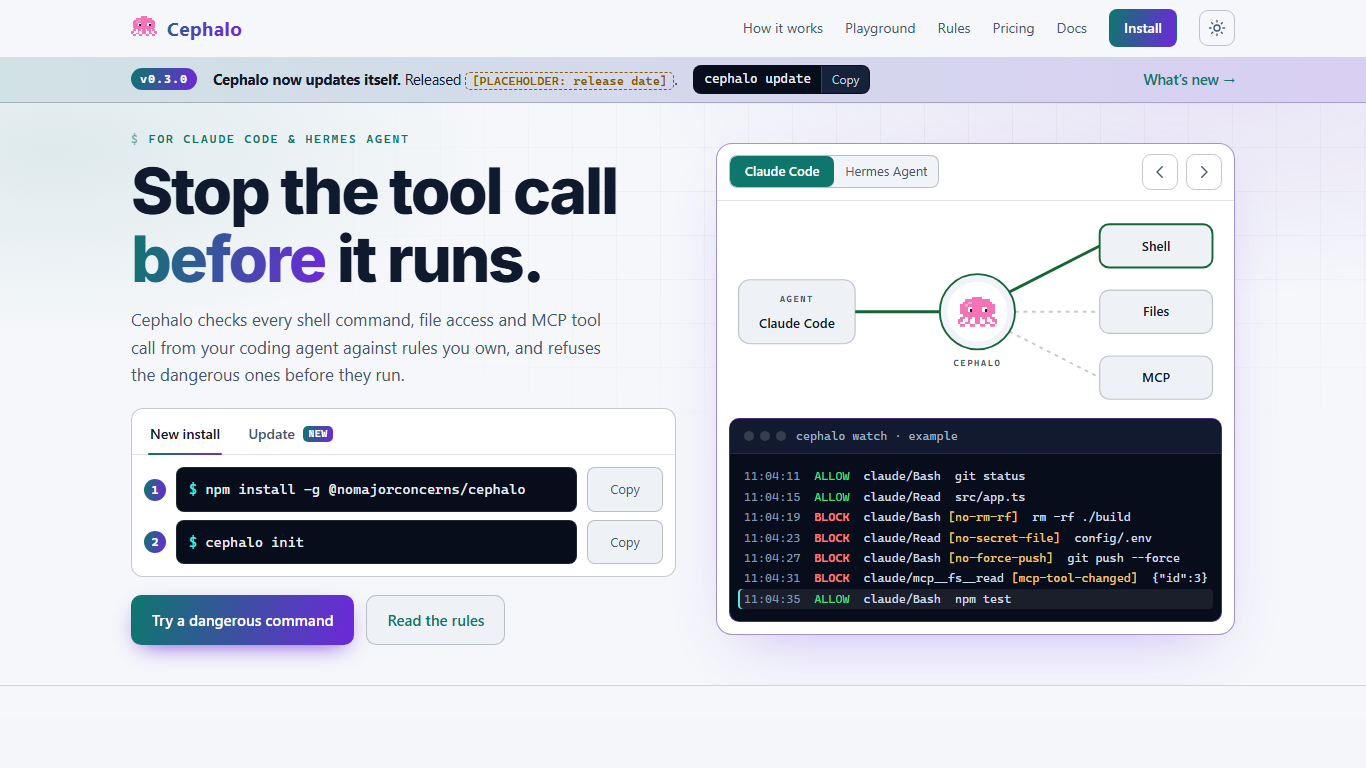
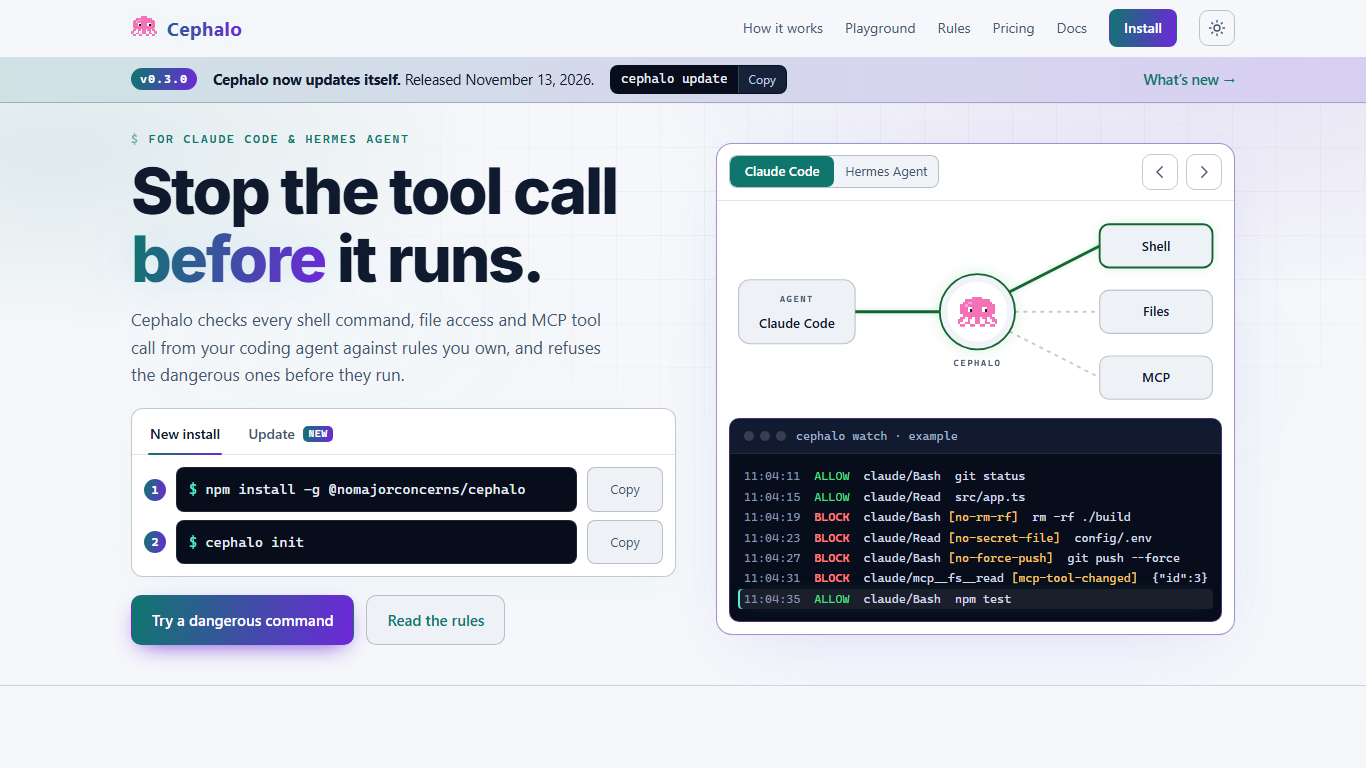
site: subtle neon glow; release date
CSS only: --glow-teal / --glow-purple halos on the command boxes, the hero card and the primary buttons
(on hover and focus), a drop-shadow glow on the gradient headline word, glowing focus rings, a faint radial
glow behind the hero, and a one-off glow on the diagram's lit ALLOW/BLOCK connection. --glow-k makes every
glow much weaker in the light theme; reduced motion keeps the glows and drops the transitions and the pulse.
The announcement bar now says: Released November 13, 2026. Refreshed the after screenshots.

Changed region(s): [[0.3382, 0.0625, 0.6457, 0.125]]

diff --git a/site/index.html b/site/index.html
@@ -1091,6 +1091,43 @@ code,kbd,pre,samp{font-variant-ligatures:none}
 .checks code,.fine code,.qv-rule{white-space:nowrap}
 .hcard .pausebtn{position:static;width:36px;height:36px;background:transparent;z-index:auto}
 @media (prefers-reduced-motion:reduce){.diag .wire,.diag .node rect,.wlog .ln{transition:none}}
+
+/* ==== subtle neon glow: halos and light, never on small body text. --glow-k scales every glow (much weaker in light). ==== */
+:root{--glow-teal:63 224 197;--glow-purple:139 108 255;--glow-allow:74 222 128;--glow-block:255 122 122;--glow-k:1}
+[data-theme="light"]{--glow-k:.32;--glow-allow:22 163 74;--glow-block:200 30 30}
+/* a very faint radial glow behind the hero */
+section.hero{background:
+  radial-gradient(38% 46% at 74% 46%,rgb(var(--glow-purple) / calc(.10 * var(--glow-k))),transparent 70%),
+  radial-gradient(30% 40% at 24% 40%,rgb(var(--glow-teal) / calc(.06 * var(--glow-k))),transparent 70%),
+  radial-gradient(60% 55% at 88% -5%,var(--glow-b),transparent 70%),
+  radial-gradient(45% 45% at 4% 8%,var(--glow-a),transparent 70%)}
+/* the gradient headline word: a soft halo drawn from the rendered gradient (drop-shadow, so the text colour is untouched) */
+.hero h1 em{filter:drop-shadow(0 0 14px rgb(var(--glow-teal) / calc(.28 * var(--glow-k)))) drop-shadow(0 0 30px rgb(var(--glow-purple) / calc(.22 * var(--glow-k))))}
+.brand{filter:drop-shadow(0 0 10px rgb(var(--glow-teal) / calc(.18 * var(--glow-k))))}
+/* halos on the command boxes, the hero card and the Now card */
+.cmdbox,.bigcmd,.chipcmd{box-shadow:0 0 0 1px rgb(var(--glow-teal) / calc(.06 * var(--glow-k))),0 12px 40px -18px rgb(var(--glow-teal) / calc(.38 * var(--glow-k)));transition:box-shadow var(--dur-med) var(--ease-out),border-color var(--dur-med)}
+.cmdbox:focus-within,.cmdbox:hover{border-color:rgb(var(--glow-teal) / calc(.45 * var(--glow-k) + .1));box-shadow:0 0 0 1px rgb(var(--glow-teal) / calc(.14 * var(--glow-k))),0 14px 48px -16px rgb(var(--glow-teal) / calc(.5 * var(--glow-k)))}
+.hcard{box-shadow:0 0 0 1px rgb(var(--glow-purple) / calc(.08 * var(--glow-k))),0 24px 70px -26px rgb(var(--glow-purple) / calc(.55 * var(--glow-k))),0 0 46px -20px rgb(var(--glow-teal) / calc(.3 * var(--glow-k)))}
+.ba-now{box-shadow:0 18px 56px -28px rgb(var(--glow-teal) / calc(.45 * var(--glow-k)))}
+/* primary buttons: a halo on hover and keyboard focus */
+.btn.primary{transition:transform var(--dur-fast) var(--ease-out),box-shadow var(--dur-med) var(--ease-out)}
+.btn.primary:hover,.btn.primary:focus-visible{box-shadow:0 10px 28px -8px rgb(var(--glow-purple) / calc(.8 * var(--glow-k))),0 0 26px -2px rgb(var(--glow-teal) / calc(.45 * var(--glow-k)))}
+nav.top .links a.cta:hover,nav.top .links a.cta:focus-visible{box-shadow:0 0 22px -4px rgb(var(--glow-teal) / calc(.55 * var(--glow-k)))}
+/* glowing focus rings: the outline stays the visible ring, the glow sits outside it */
+:focus-visible{box-shadow:0 0 0 4px rgb(var(--glow-teal) / calc(.18 * var(--glow-k))),0 0 18px rgb(var(--glow-teal) / calc(.35 * var(--glow-k)))}
+/* the diagram: the active connection glows in its colour, briefly brighter as it lights up (a one-off, not a loop) */
+.diag .wire.lit-allow{filter:drop-shadow(0 0 3px rgb(var(--glow-allow) / calc(.7 * var(--glow-k))));animation:glow-allow .9s var(--ease-out) both}
+.diag .wire.lit-block{filter:drop-shadow(0 0 3px rgb(var(--glow-block) / calc(.7 * var(--glow-k))));animation:glow-block .9s var(--ease-out) both}
+.diag .node.lit-allow rect{filter:drop-shadow(0 0 6px rgb(var(--glow-allow) / calc(.45 * var(--glow-k))))}
+.diag .node.lit-block rect{filter:drop-shadow(0 0 6px rgb(var(--glow-block) / calc(.45 * var(--glow-k))))}
+.diag .gate.lit-allow .gring{filter:drop-shadow(0 0 8px rgb(var(--glow-allow) / calc(.5 * var(--glow-k))))}
+.diag .gate.lit-block .gring{filter:drop-shadow(0 0 8px rgb(var(--glow-block) / calc(.5 * var(--glow-k))))}
+@keyframes glow-allow{from{filter:drop-shadow(0 0 9px rgb(var(--glow-allow) / var(--glow-k)))}to{filter:drop-shadow(0 0 3px rgb(var(--glow-allow) / calc(.7 * var(--glow-k))))}}
+@keyframes glow-block{from{filter:drop-shadow(0 0 9px rgb(var(--glow-block) / var(--glow-k)))}to{filter:drop-shadow(0 0 3px rgb(var(--glow-block) / calc(.7 * var(--glow-k))))}}
+/* the current watch-log row */
+.wlog .ln.cur{box-shadow:inset 2px 0 0 #5eead4,0 0 18px -8px rgb(63 224 197 / .45)}
+/* reduced motion: the glows stay, the transitions and the one-off pulse go */
+@media (prefers-reduced-motion:reduce){.cmdbox,.bigcmd,.chipcmd,.btn.primary{transition:none}.diag .wire.lit-allow,.diag .wire.lit-block{animation:none}}
 </style>
 </head>
 <body>
@@ -1117,7 +1154,7 @@ code,kbd,pre,samp{font-variant-ligatures:none}
 <aside class="released" id="released" aria-label="Release notice">
   <div class="wrap">
     <span class="rel-pill">v0.3.0</span>
-    <span class="rel-text"><b>Cephalo now updates itself.</b> Released <span class="ph">[PLACEHOLDER: release date]</span>.</span>
+    <span class="rel-text"><b>Cephalo now updates itself.</b> Released November 13, 2026.</span>
     <span class="chipcmd"><code>cephalo update</code><button class="copy mini" data-copy="cephalo update" type="button" aria-label="Copy cephalo update">Copy</button></span>
     <span class="rel-links"><a href="https://github.com/nomajorconcerns/cephalo/blob/master/CHANGELOG.md#030" rel="noopener">What&rsquo;s new &rarr;</a></span>
   </div>
